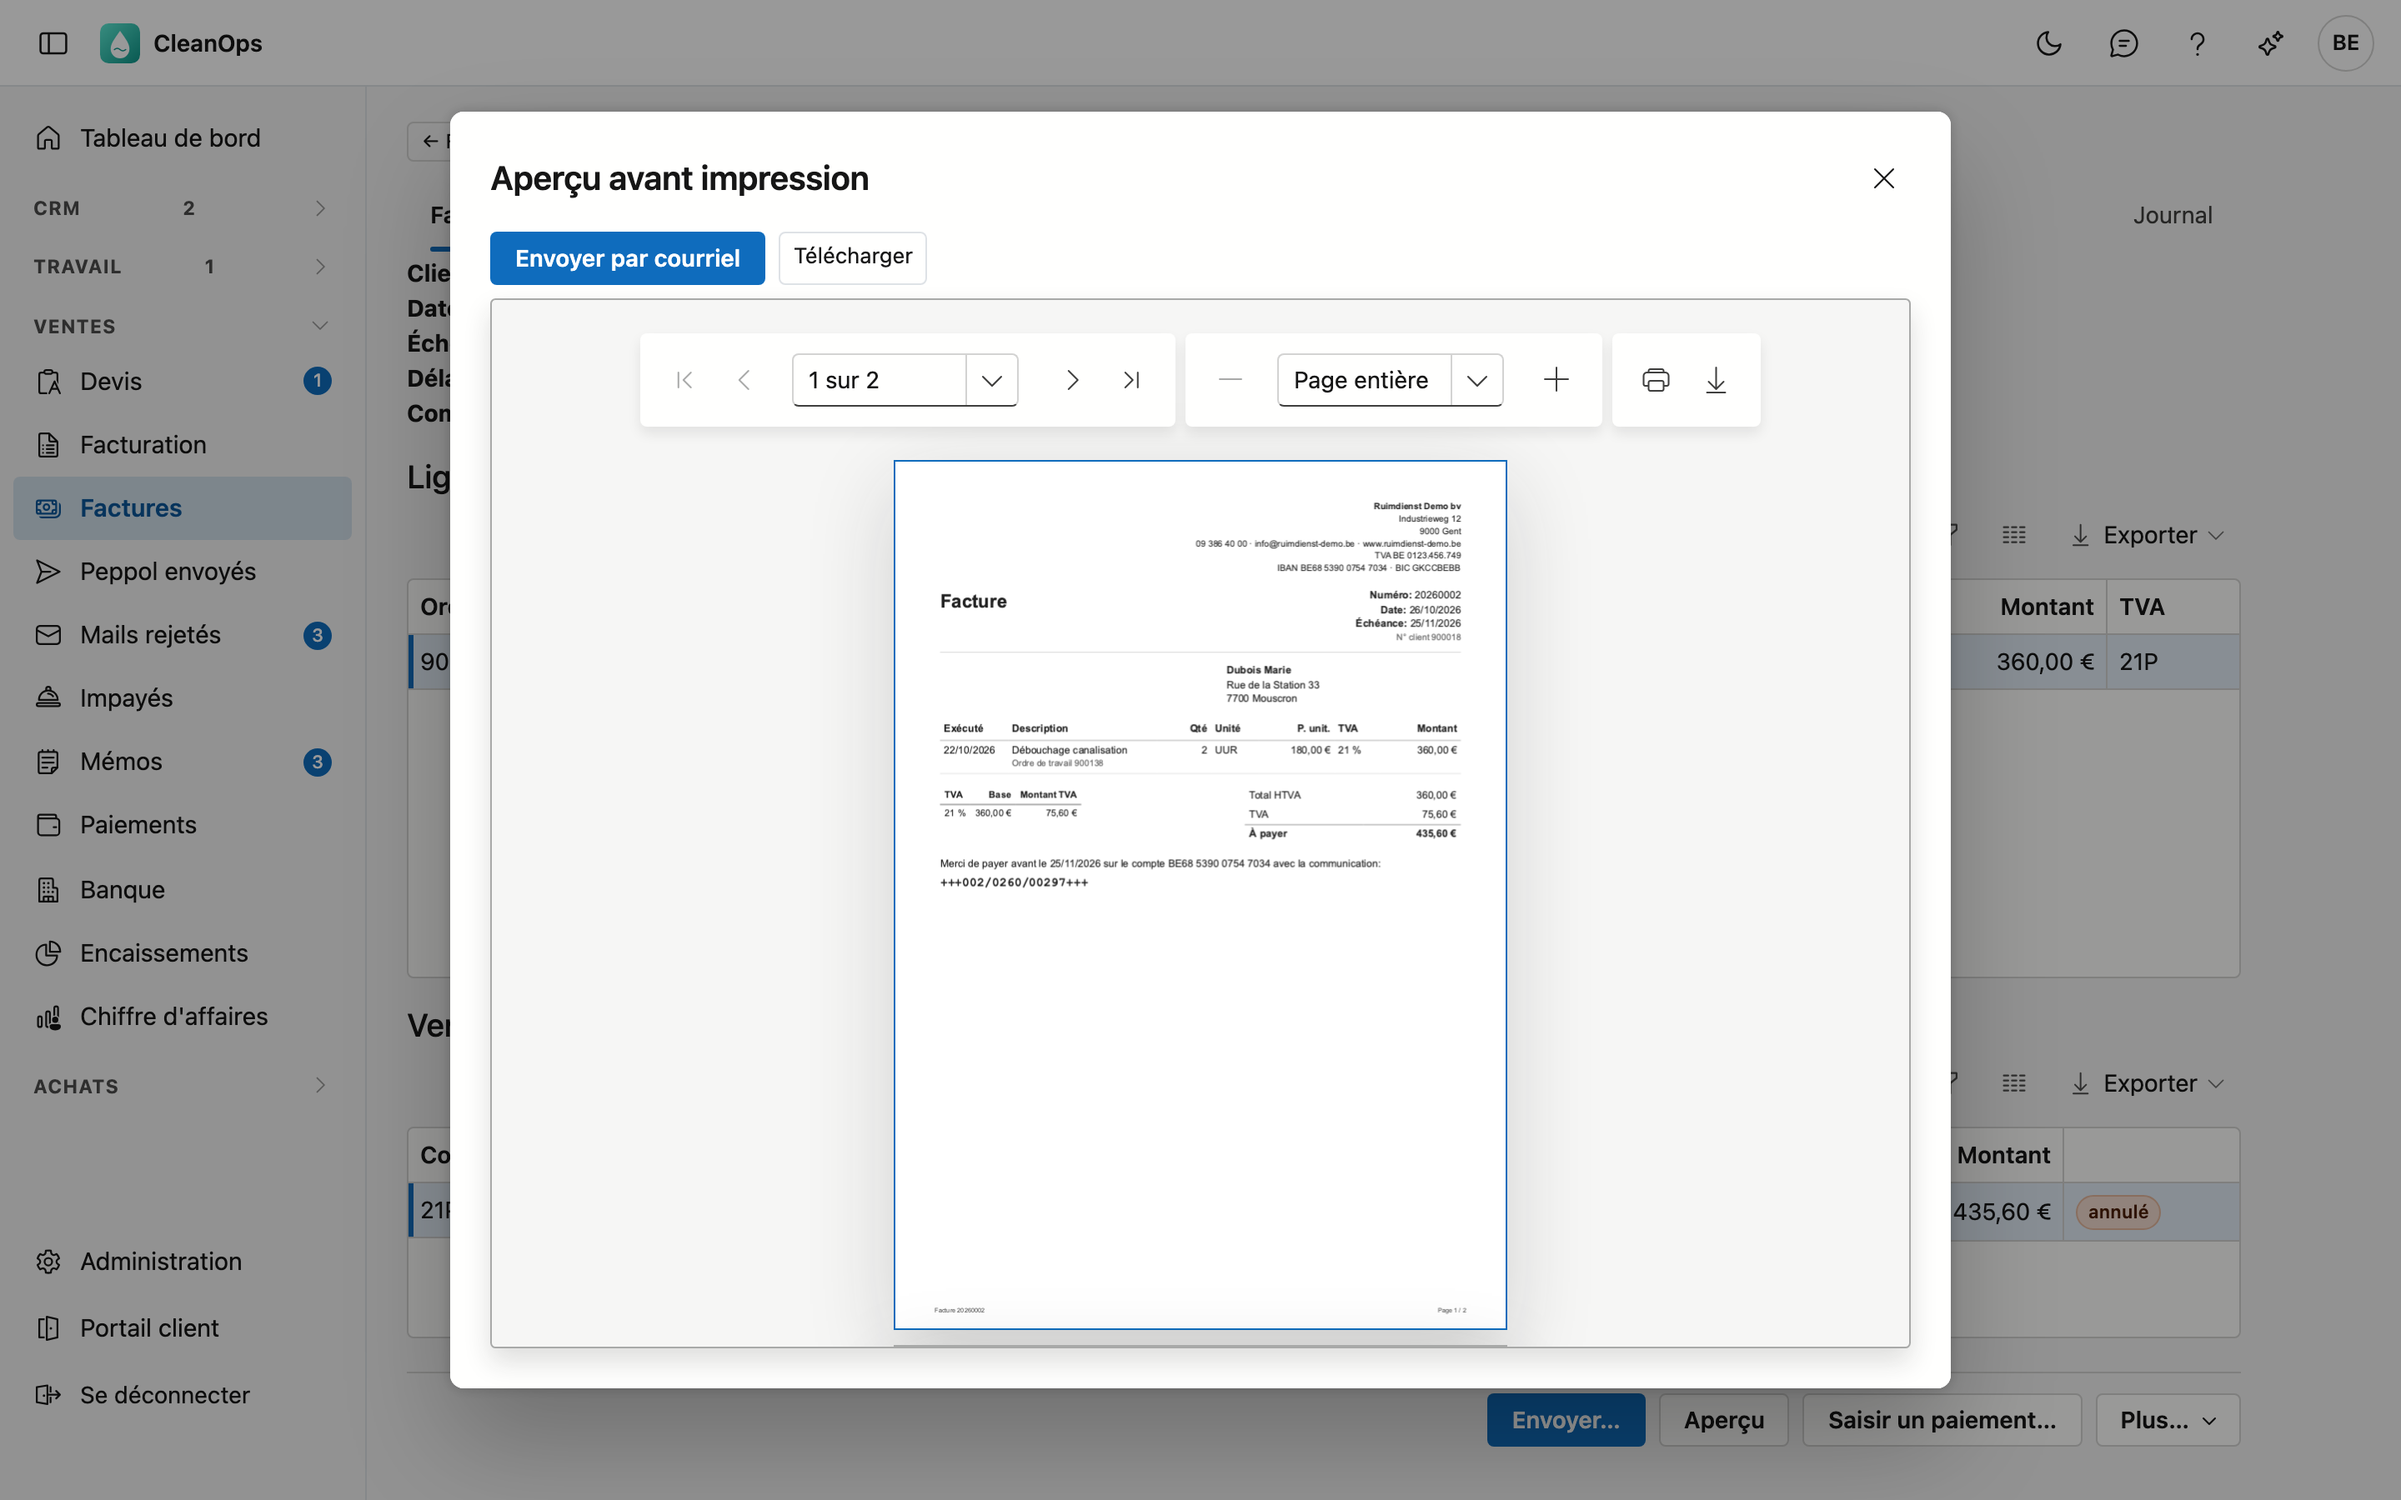
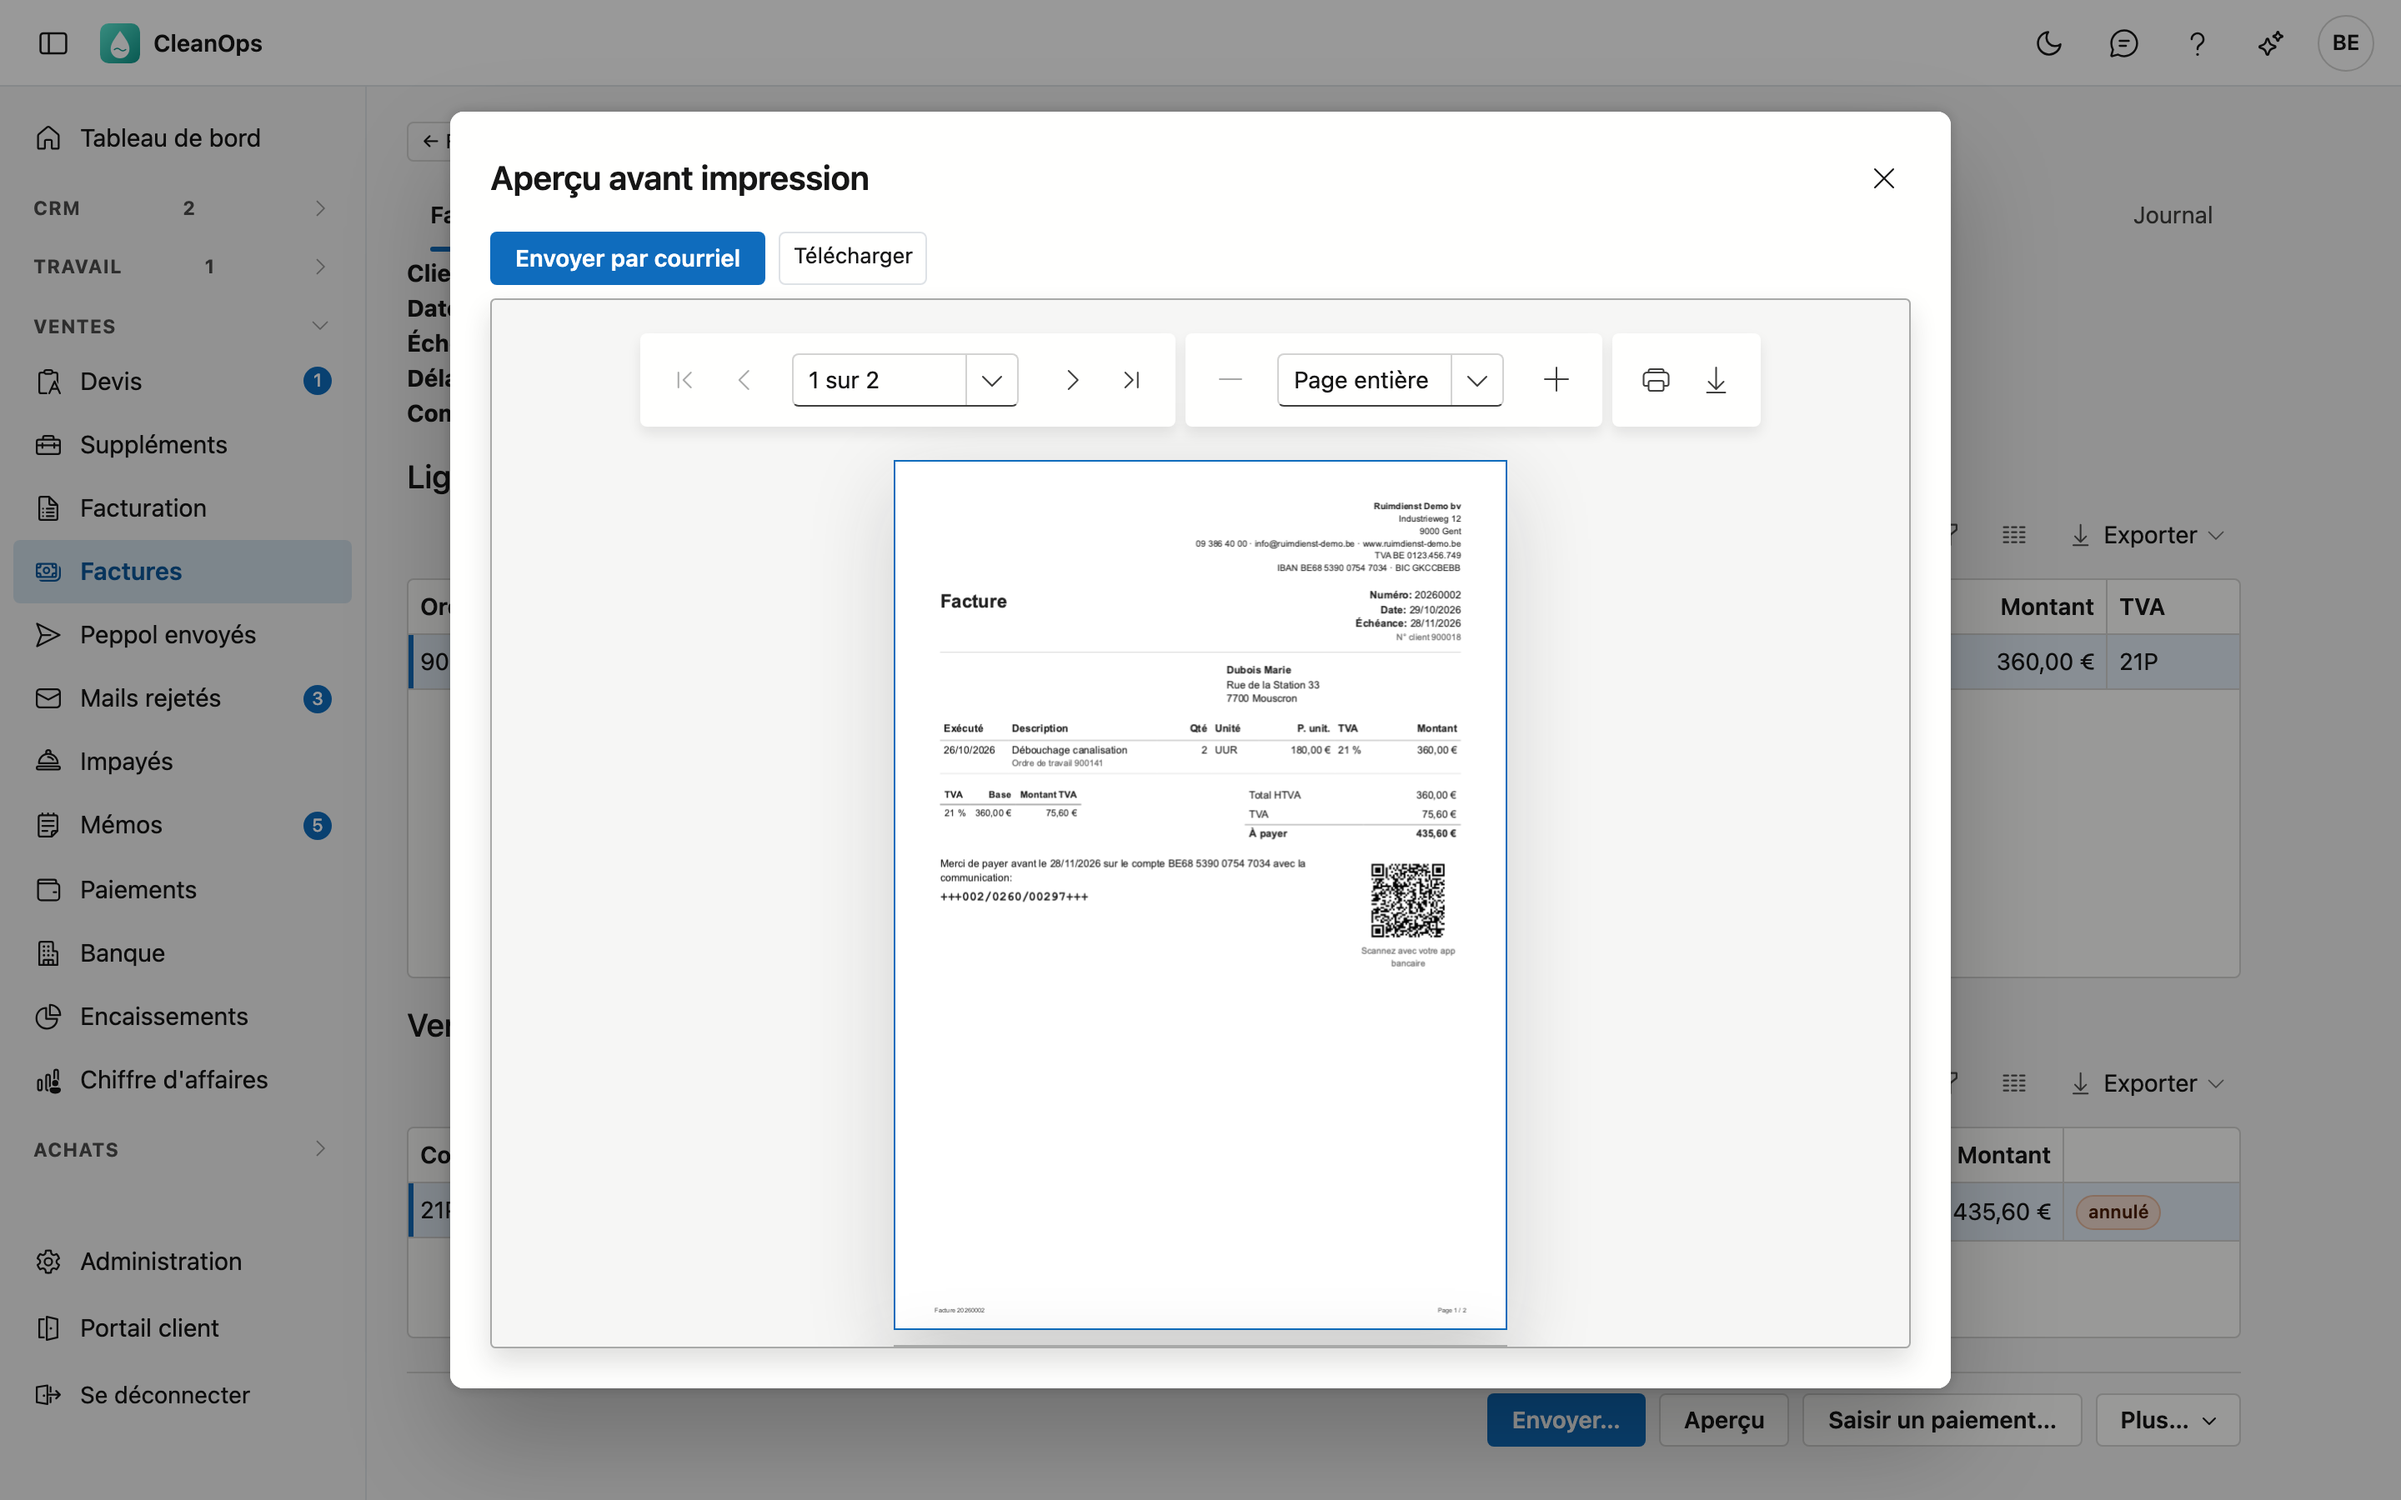
Facturen: betaal-QR op de afdruk en lijnen verschuiven (NL+FR, nieuw afdrukbeeld)

diff --git a/docs/facturen.fr.md b/docs/facturen.fr.md
@@ -69,7 +69,8 @@ déplacement ou une livraison de matériel.
 3. Dans le bloc **Lignes**, remplissez les lignes. Choisir un **Tarif** remplit la description, l'unité, le prix et le code TVA, et place le
    **Texte sur la facture** du tarif dans le champ **Texte sous la ligne** ; vous pouvez ensuite les adapter. Ce qui figure dans ce
    champ est imprimé sur la facture, sous la ligne. Une description de plus de 35 caractères y figure aussi en entier. Le menu **⋯**
-   à droite duplique ou supprime une ligne ; **+ Ajouter une ligne** en ajoute une.
+   à droite déplace une ligne (**Monter** ou **Descendre**), la duplique ou la supprime ; **+ Ajouter une ligne** en ajoute une. Les
+   lignes figurent sur la facture dans cet ordre.
 4. En bas figurent le total hors TVA, la TVA et le total TVA comprise, tels qu'ils seront comptabilisés.
 5. Cliquez sur **Comptabiliser la facture**. CleanOps vous le demande encore une fois, avec le montant. La facture reçoit le numéro
    suivant, une échéance selon le délai de paiement du client et une communication structurée, et figure dans les
@@ -102,7 +103,7 @@ Si le document est encore ouvert, **Saisir un paiement…** y saisit directement
 d'imprimante de la visionneuse l'imprime. Si la facture a déjà été envoyée, CleanOps vous demande d'abord si vous voulez quand
 même l'ouvrir.
 
-![L'Aperçu avant impression d'une facture avec l'en-tête, les lignes, la TVA, les totaux et la communication structurée](images/factuur-afdruk-fr.png "Impression")
+![L'Aperçu avant impression d'une facture avec l'en-tête, les lignes, la TVA, les totaux, la communication structurée et le QR de paiement](images/factuur-afdruk-fr.png "Impression")
 
 Sur la facture figurent :
 
@@ -112,6 +113,9 @@ Sur la facture figurent :
 - le client avec son adresse et son numéro de TVA ;
 - le texte d'en-tête, les lignes, la TVA par pourcentage et les totaux ;
 - sur une facture, la demande de paiement avec la communication structurée — pas sur une note de crédit ;
+- à côté, un **QR de paiement** : le client le scanne avec son app bancaire et le virement est rempli, avec le montant et la communication.
+  Il figure sur la facture tant que rien n'a été payé et que la [fiche d'entreprise](beheer/bedrijfsfiche.fr.md) porte un IBAN valide.
+  Une facture payée sur place, une note de crédit et la copie jointe à un rappel n'en reçoivent pas ;
 - le texte de pied de page et les mentions légales : à 6 %, la phrase d'attestation ; à 0 %, l'autoliquidation par le
   cocontractant ;
 - sur une page à part à la fin, les **conditions générales** de la [fiche d'entreprise](beheer/bedrijfsfiche.fr.md#conditions-generales),
@@ -243,7 +247,7 @@ facture s'ouvre, avec la facture, en trois blocs : **Facture**, **Ordres de trav
 - les **Ordres de travail** de la facture. La croix en retire un ; cet ordre figure ensuite à nouveau dans
   [Facturation](facturatie.fr.md). **+ Ajouter des ordres de travail…** choisit des ordres à facturer du même client, exécutés au
   plus tard à la date de la facture ;
-- les **Lignes libres**, que vous adaptez, ajoutez ou supprimez comme pour une nouvelle facture ;
+- les **Lignes libres**, que vous adaptez, déplacez, ajoutez ou supprimez comme pour une nouvelle facture ;
 - la référence du client, le texte d'en-tête et le texte de pied de page.
 
 ![Rouvrir la facture 20260002 de Dubois Marie : les Ordres de travail avec une croix pour les retirer, une ligne libre ajoutée, et le bouton Comptabiliser les modifications](images/factuur-heropenen-fr.png "Rouvrir")

diff --git a/docs/facturen.md b/docs/facturen.md
@@ -65,7 +65,8 @@ materiaallevering.
 3. Vul in het blok **Lijnen** de lijnen in. Een **Tarief** kiezen vult de omschrijving, de eenheid, de prijs en de btw-code in, en zet de
    **Tekst op de factuur** van het tarief in het vak **Tekst onder de lijn**; u kunt ze daarna aanpassen. Wat in dat vak staat,
    komt op de factuur onder de lijn. Een omschrijving langer dan 35 tekens komt daar ook volledig te staan. Met het menu **⋯** rechts
-   dupliceert of verwijdert u een lijn, met **+ Regel toevoegen** komt er een bij.
+   zet u een lijn **Omhoog** of **Omlaag**, dupliceert of verwijdert u ze; met **+ Regel toevoegen** komt er een bij. In die volgorde
+   komen de lijnen op de factuur.
 4. Onderaan ziet u het totaal zonder btw, de btw en het totaal met btw, zoals ze geboekt worden.
 5. Klik op **Factuur boeken**. CleanOps vraagt het nog eens, met het bedrag. De factuur krijgt het volgende nummer, een vervaldag
    volgens de betalingstermijn van de klant en een gestructureerde mededeling, en komt in [Openstaande posten](openstaande-posten.md).
@@ -96,7 +97,7 @@ Staat het document nog open, dan geeft **Betaling ingeven…** er meteen een bet
 **Afdrukvoorbeeld** toont de factuur als PDF, in de taal van de factuur. **Downloaden** bewaart ze; met het printerteken in de kijker
 drukt u ze af. Is de factuur al verstuurd, dan vraagt CleanOps eerst of u ze toch wilt openen.
 
-![Het Afdrukvoorbeeld van een factuur met het briefhoofd, de lijnen, de btw, de totalen en de gestructureerde mededeling](images/factuur-afdruk.png "Afdruk")
+![Het Afdrukvoorbeeld van een factuur met het briefhoofd, de lijnen, de btw, de totalen, de gestructureerde mededeling en de betaal-QR](images/factuur-afdruk.png "Afdruk")
 
 Op de factuur staan:
 
@@ -106,6 +107,9 @@ Op de factuur staan:
 - de klant met zijn adres en btw-nummer;
 - de koptekst, de lijnen, de btw per percentage en de totalen;
 - op een factuur de vraag om te betalen met de gestructureerde mededeling — niet op een creditnota;
+- daarnaast een **betaal-QR**: de klant scant hem met zijn bankapp en de overschrijving staat ingevuld, met het bedrag en de mededeling.
+  Hij staat erop zolang er op de factuur nog niets betaald is en de [bedrijfsfiche](beheer/bedrijfsfiche.md) een geldig IBAN draagt.
+  Een factuur die ter plaatse betaald is, een creditnota en de kopie achter een rappelbrief krijgen er geen;
 - de slottekst en de wettelijke vermeldingen: bij 6 % de attestzin, bij 0 % de verlegging naar de medecontractant;
 - op een eigen blad achteraan de **algemene voorwaarden** uit de [bedrijfsfiche](beheer/bedrijfsfiche.md#algemene-voorwaarden),
   in de taal van de factuur — als ze daar ingevuld zijn. Een creditnota krijgt dat blad niet, en een rappelbrief ook niet.
@@ -229,7 +233,7 @@ opent, met de factuur erin, in drie blokken: **Factuur**, **Werkorders** en **Vr
 - de **werkorders** op de factuur. Met het kruisje haalt u er een af; die werkorder staat daarna weer in
   [Facturatie](facturatie.md). Met **+ Werkorders toevoegen…** kiest u te factureren werkorders van dezelfde klant, uitgevoerd tot
   de factuurdatum;
-- de **vrije lijnen**, die u aanpast, toevoegt of verwijdert zoals bij een nieuwe factuur;
+- de **vrije lijnen**, die u aanpast, verplaatst, toevoegt of verwijdert zoals bij een nieuwe factuur;
 - de klantreferentie, de koptekst en de slottekst.
 
 ![Factuur 20260002 heropenen voor Dubois Marie: de Werkorders met een kruisje om ze weg te halen, een vrije lijn erbij, en de knop Wijzigingen boeken](images/factuur-heropenen.png "Heropenen")
